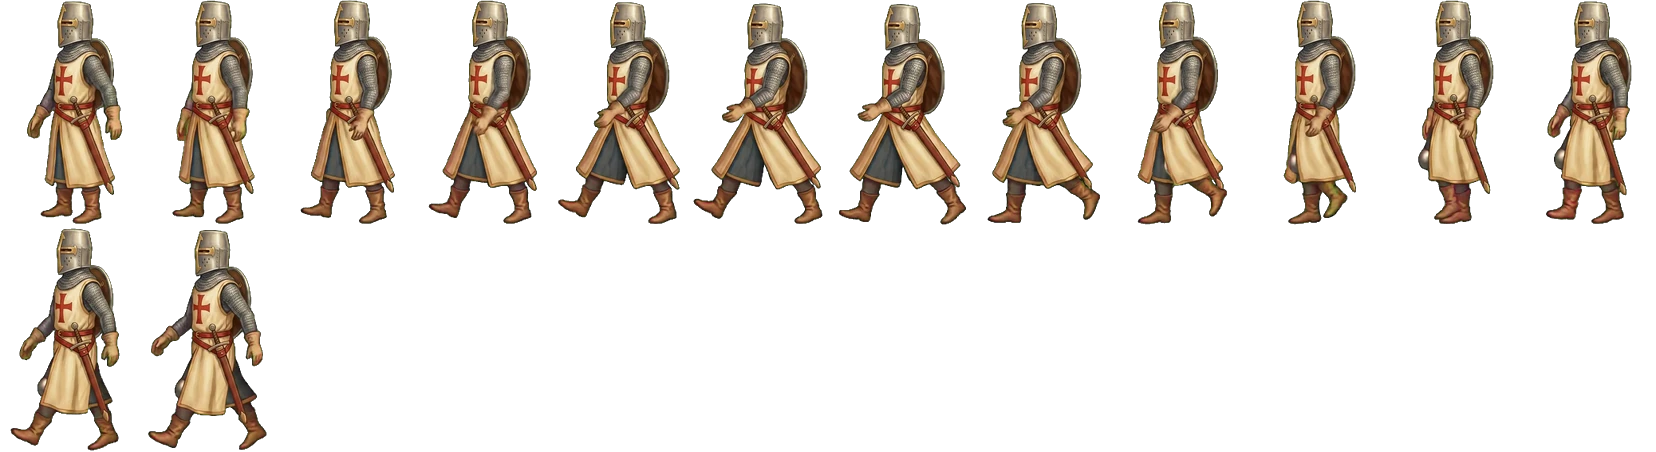
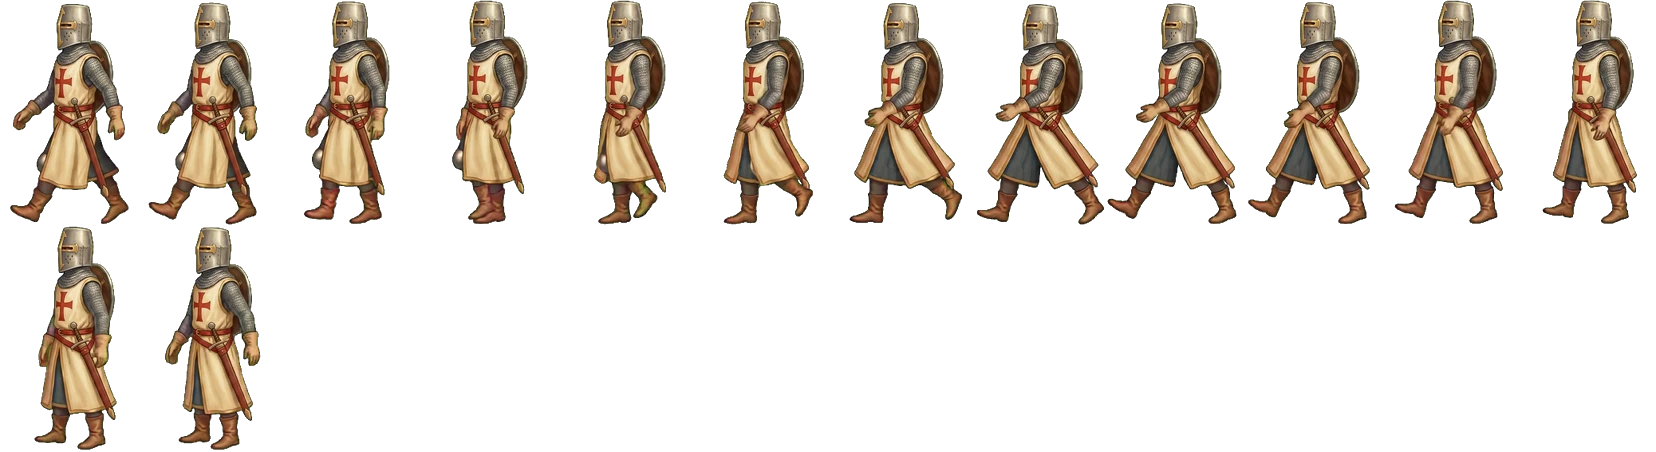
Play the knight's walk cycle forwards
The walk clip had the planted foot sliding forward under the body, so the
knight moonwalked. The same frames are now cut in reverse order
(cycle.py --reverse), which makes the planted foot travel backward and the
swing foot forward. The conventions describe the check: in a right-facing
in-place walk the grounded foot must move left from frame to frame.

Claude-Session: https://claude.ai/code/session_01WhnNSNbHDHPivHiJzsvQ8w

Changed region(s): [[0.1848, 0.0, 1.0, 0.4956], [0.0, 0.0, 0.1848, 1.0]]

diff --git a/tools/art/cycle.py b/tools/art/cycle.py
@@ -46,6 +46,8 @@ def main() -> None:
     parser.add_argument("--max-period", type=float, default=2.0, help="seconds")
     parser.add_argument("--settle", type=float, default=0.0, help="once: distance below which the pose counts as settled (0 = auto)")
     parser.add_argument("--window", default="", help="only consider frames between these seconds, e.g. 2.5,6.5")
+    parser.add_argument("--reverse", action="store_true",
+                        help="play the kept frames backwards (a walk whose planted foot slides forward is a moonwalk)")
     parser.add_argument("--stop-at-peak", action="store_true",
                         help="once: end at the frame farthest from the start (a pose that is held, e.g. crouch)")
     args = parser.parse_args()
@@ -88,6 +90,8 @@ def main() -> None:
     want = max(2, min(args.max_frames, int(round(len(picked_idx) * args.fps / src_fps))))
     positions = np.linspace(0, len(picked_idx) - 1, num=want, endpoint=(args.mode == "once"))
     chosen = [picked_idx[int(round(p))] for p in positions]
+    if args.reverse:
+        chosen.reverse()
     out_frames = [frames[i] for i in chosen]
     width, height = out_frames[0].size
     columns = min(len(out_frames), 12)

diff --git a/tools/art/CONVENTIONS.md b/tools/art/CONVENTIONS.md
@@ -101,6 +101,9 @@ rotated puppet parts (dangling cloth needs real frames). Recipe:
    `--crop x0,y0,x1,y1` to cut off impact effects, `--min-blob` to drop flying specks.
    Idle loops made with first = last frame loop over the whole clip: cut them with
    `cycle.py --mode loop --fps 8 --max-frames 48 --min-period 5 --max-period 6.2`.
+   Check every walk for a moonwalk before shipping it: in a right-facing walk animated in place the
+   planted foot must slide left (backward) from frame to frame. If it slides right, the model walked
+   the character backwards; cut the same frames with `cycle.py --reverse`.
 5. `cycle.py frames/<anim>.json game/assets/characters/<name>/anim --mode loop|once --fps 12`
    picks one period (loop) or the motion segment (once), resamples to 12 fps, and writes
    `<anim>.png` (sheet) + `<anim>.json` (frames, columns, size, fps, loop, origin). Look at
